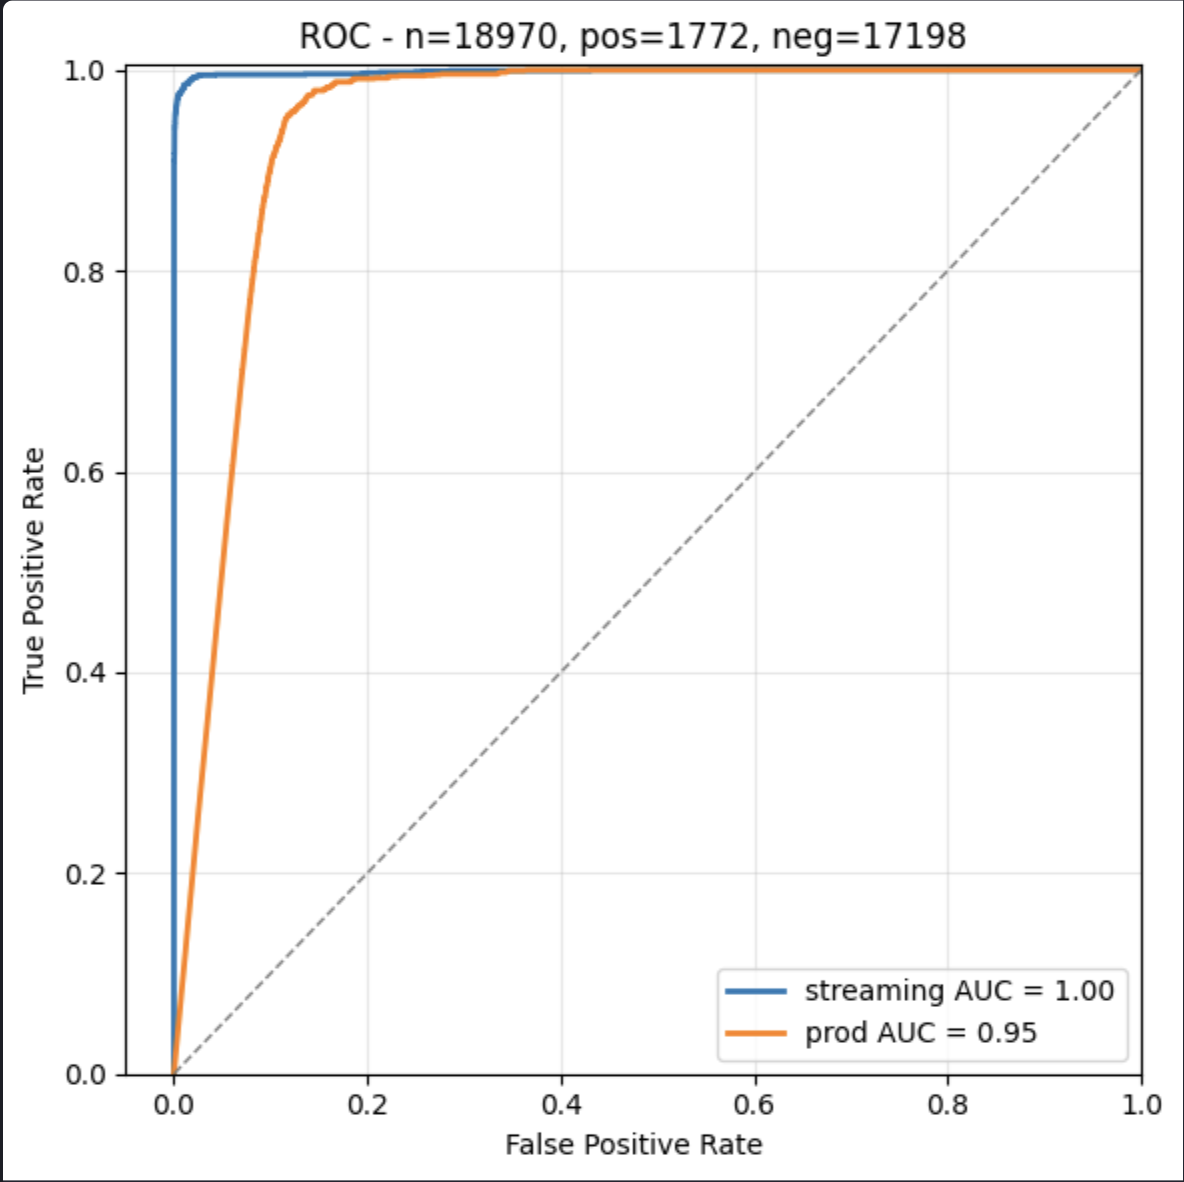
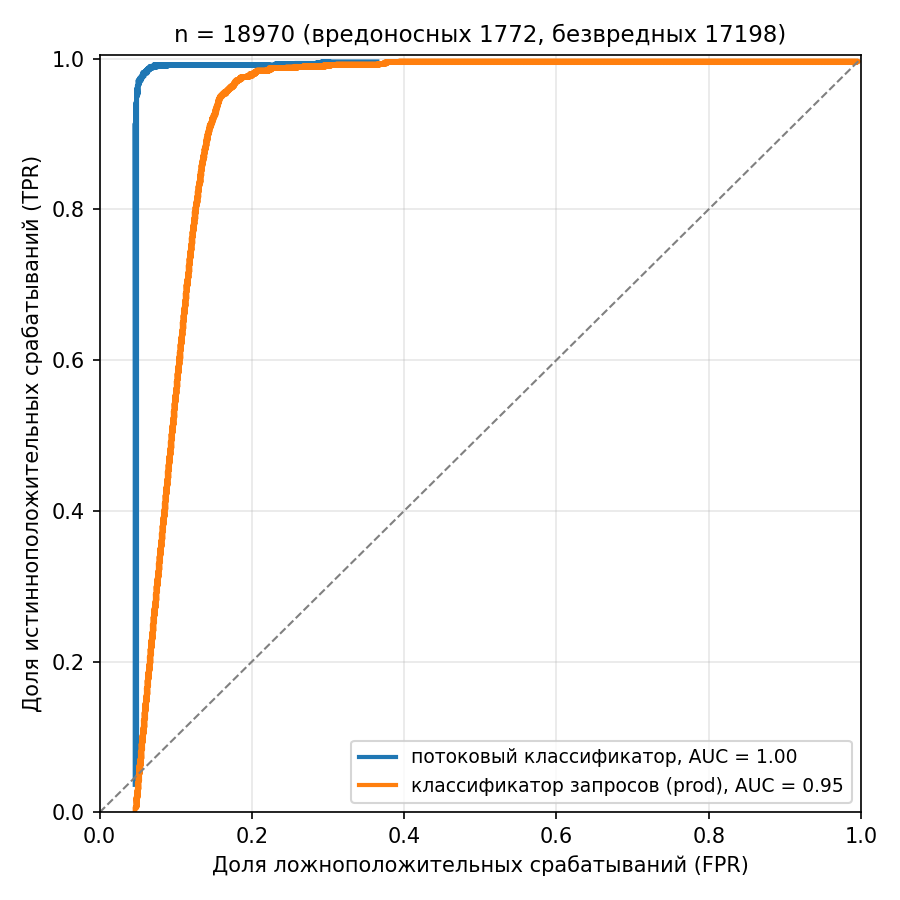
docs: russify streaming-censor figures; declutter FPR plot; full-page trace
- Рис 6.3 (FPR calibration): regenerated in Russian from the real 500-example
  calibration run; removed the 4 vertical threshold lines and the τ legend
  entries — legend now shows only the two distribution labels
- Рис 6.2 (streaming trace): regenerated in Russian with larger fonts and
  promoted to a full-page figure for readability
- Рис 6.5 (ROC, old/new test): re-plotted natively in Russian (curves digitized
  from the originals; AUCs 1.00/0.95 and 0.60/0.83 and prod operating point kept)
- safety-pipeline.tex: updated captions 6.2/6.3 to match (no English raw/EMA/
  label/threshold-line references) and full-page layout for the trace

diff --git a/chapters/safety-pipeline.tex b/chapters/safety-pipeline.tex
@@ -110,10 +110,10 @@
 Классификация выполняется потоково: как только сглаженная оценка впервые превышает порог ($\bar{p}_t > \tau_c$), генерация прерывается, а обмен блокируется.
 Потокенную динамику решающего правила иллюстрирует Рисунок~\ref{fig:sp_streaming_trace}: на безвредных обменах сглаженная оценка $\bar{p}_t$ остаётся существенно ниже порога, тогда как на вредоносных она пересекает порог, после чего генерация прерывается.
 
-\begin{figure}[htbp]
+\begin{figure}[p]
     \centering
-    \includegraphics[width=0.78\textwidth]{chapters/figures/censor_streaming_trace.png}
-    \caption{Потокенная динамика классификатора обменов на отложенном разбиении: исходная вероятность вредности $p_{\text{clf}}(t)$ (raw~$p_t$), её экспоненциальное сглаживание $\bar{p}_t$ (EMA) и единый порог срабатывания $\tau_c$. На безвредных примерах (gold~$=0$) оценка остаётся ниже порога; на вредоносных (gold~$=1$) сглаженная оценка пересекает порог, после чего генерация прерывается (заштрихованная зона).}
+    \includegraphics[width=\textwidth,height=0.9\textheight,keepaspectratio]{chapters/figures/censor_streaming_trace.png}
+    \caption{Потокенная динамика классификатора обменов на отложенном разбиении: исходная вероятность вредоносности $p_{\text{clf}}(t)$, её экспоненциальное сглаживание $\bar{p}_t$ и единый порог срабатывания $\tau_c$. На безвредных примерах (эталон~$=0$) оценка остаётся ниже порога; на вредоносных (эталон~$=1$) сглаженная оценка пересекает порог, после чего генерация прерывается (заштрихованная зона).}
     \label{fig:sp_streaming_trace}
 \end{figure}
 
@@ -123,7 +123,7 @@
 \begin{figure}[htbp]
     \centering
     \includegraphics[width=0.9\textwidth]{chapters/figures/censor_fpr_calibration.png}
-    \caption{Калибровка порога потокового классификатора по заданной доле ложноположительных срабатываний (FPR) на отложенном разбиении: распределение финальной сглаженной оценки $\bar{p}_T$ для безвредных (label~$=0$) и вредоносных (label~$=1$) обменов; вертикальными линиями показаны пороги, обеспечивающие заданные значения FPR.}
+    \caption{Калибровка порога потокового классификатора по заданной доле ложноположительных срабатываний (FPR) на отложенном разбиении: распределение финальной сглаженной оценки $\bar{p}_T$ для безвредных (метка~$=0$) и вредоносных (метка~$=1$) обменов. Разделимость распределений позволяет калибровать порог $\tau_c$ под заданный уровень FPR.}
     \label{fig:sp_fpr_calibration}
 \end{figure}
 
